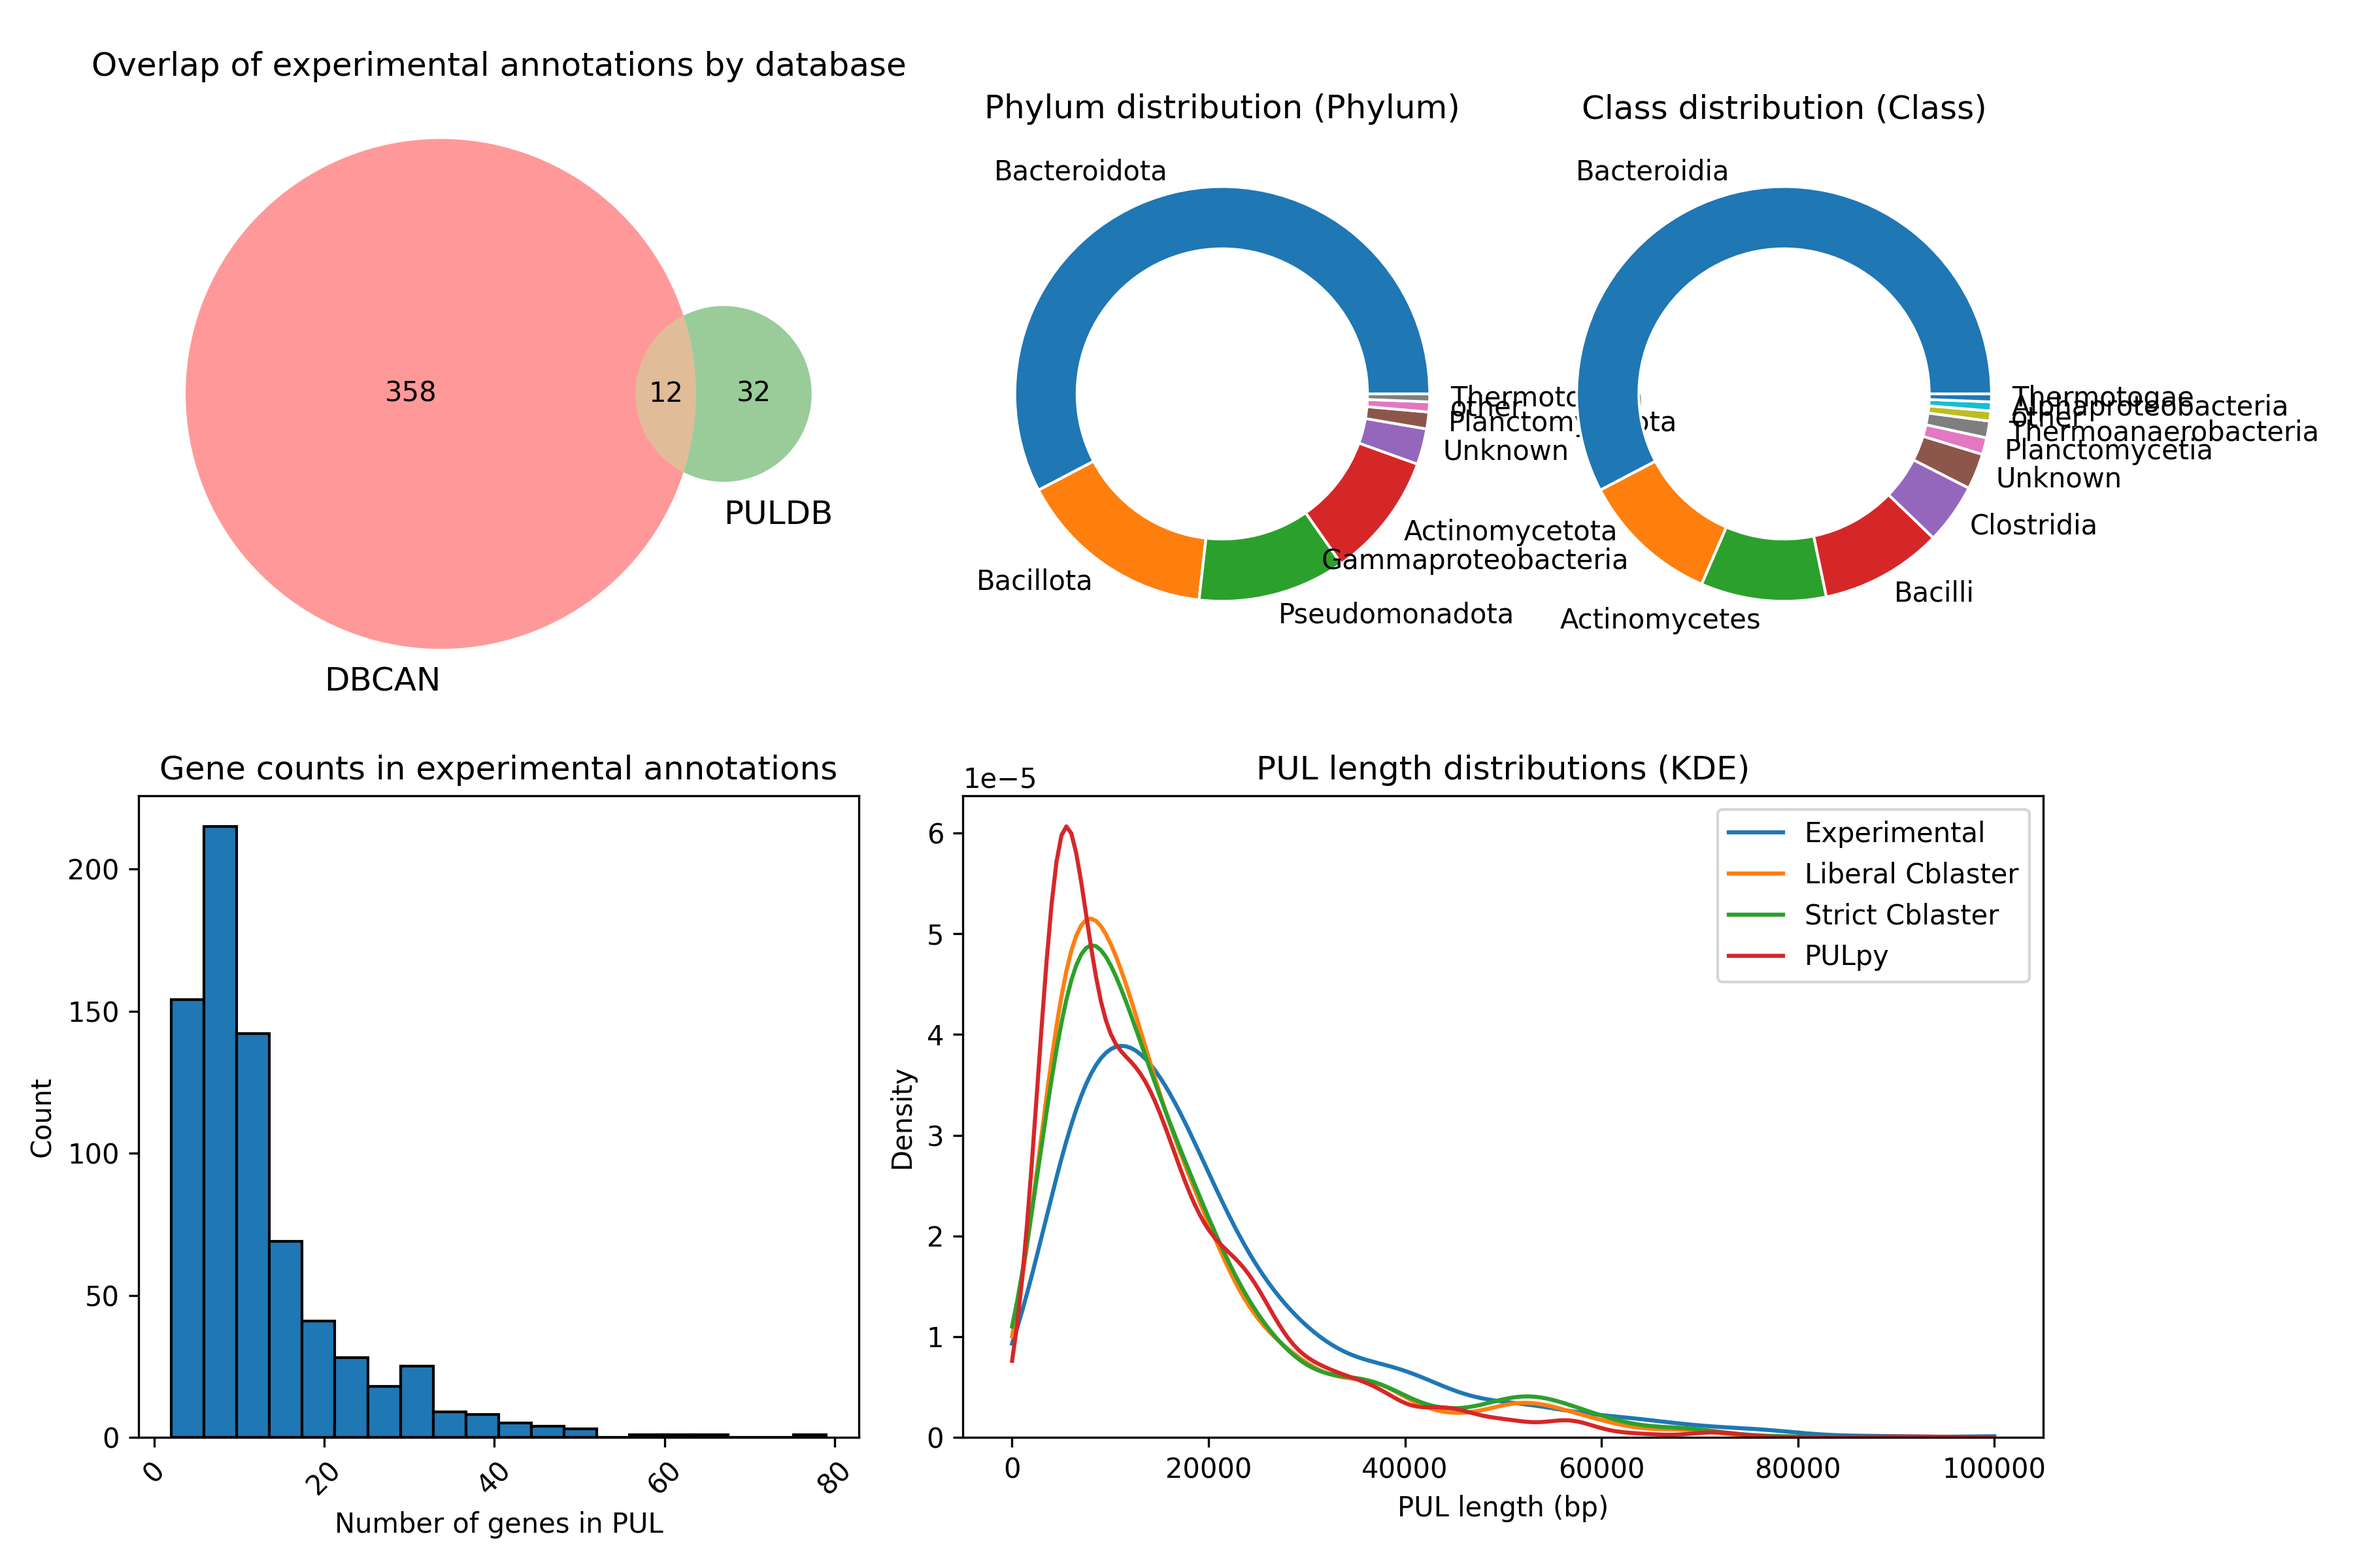
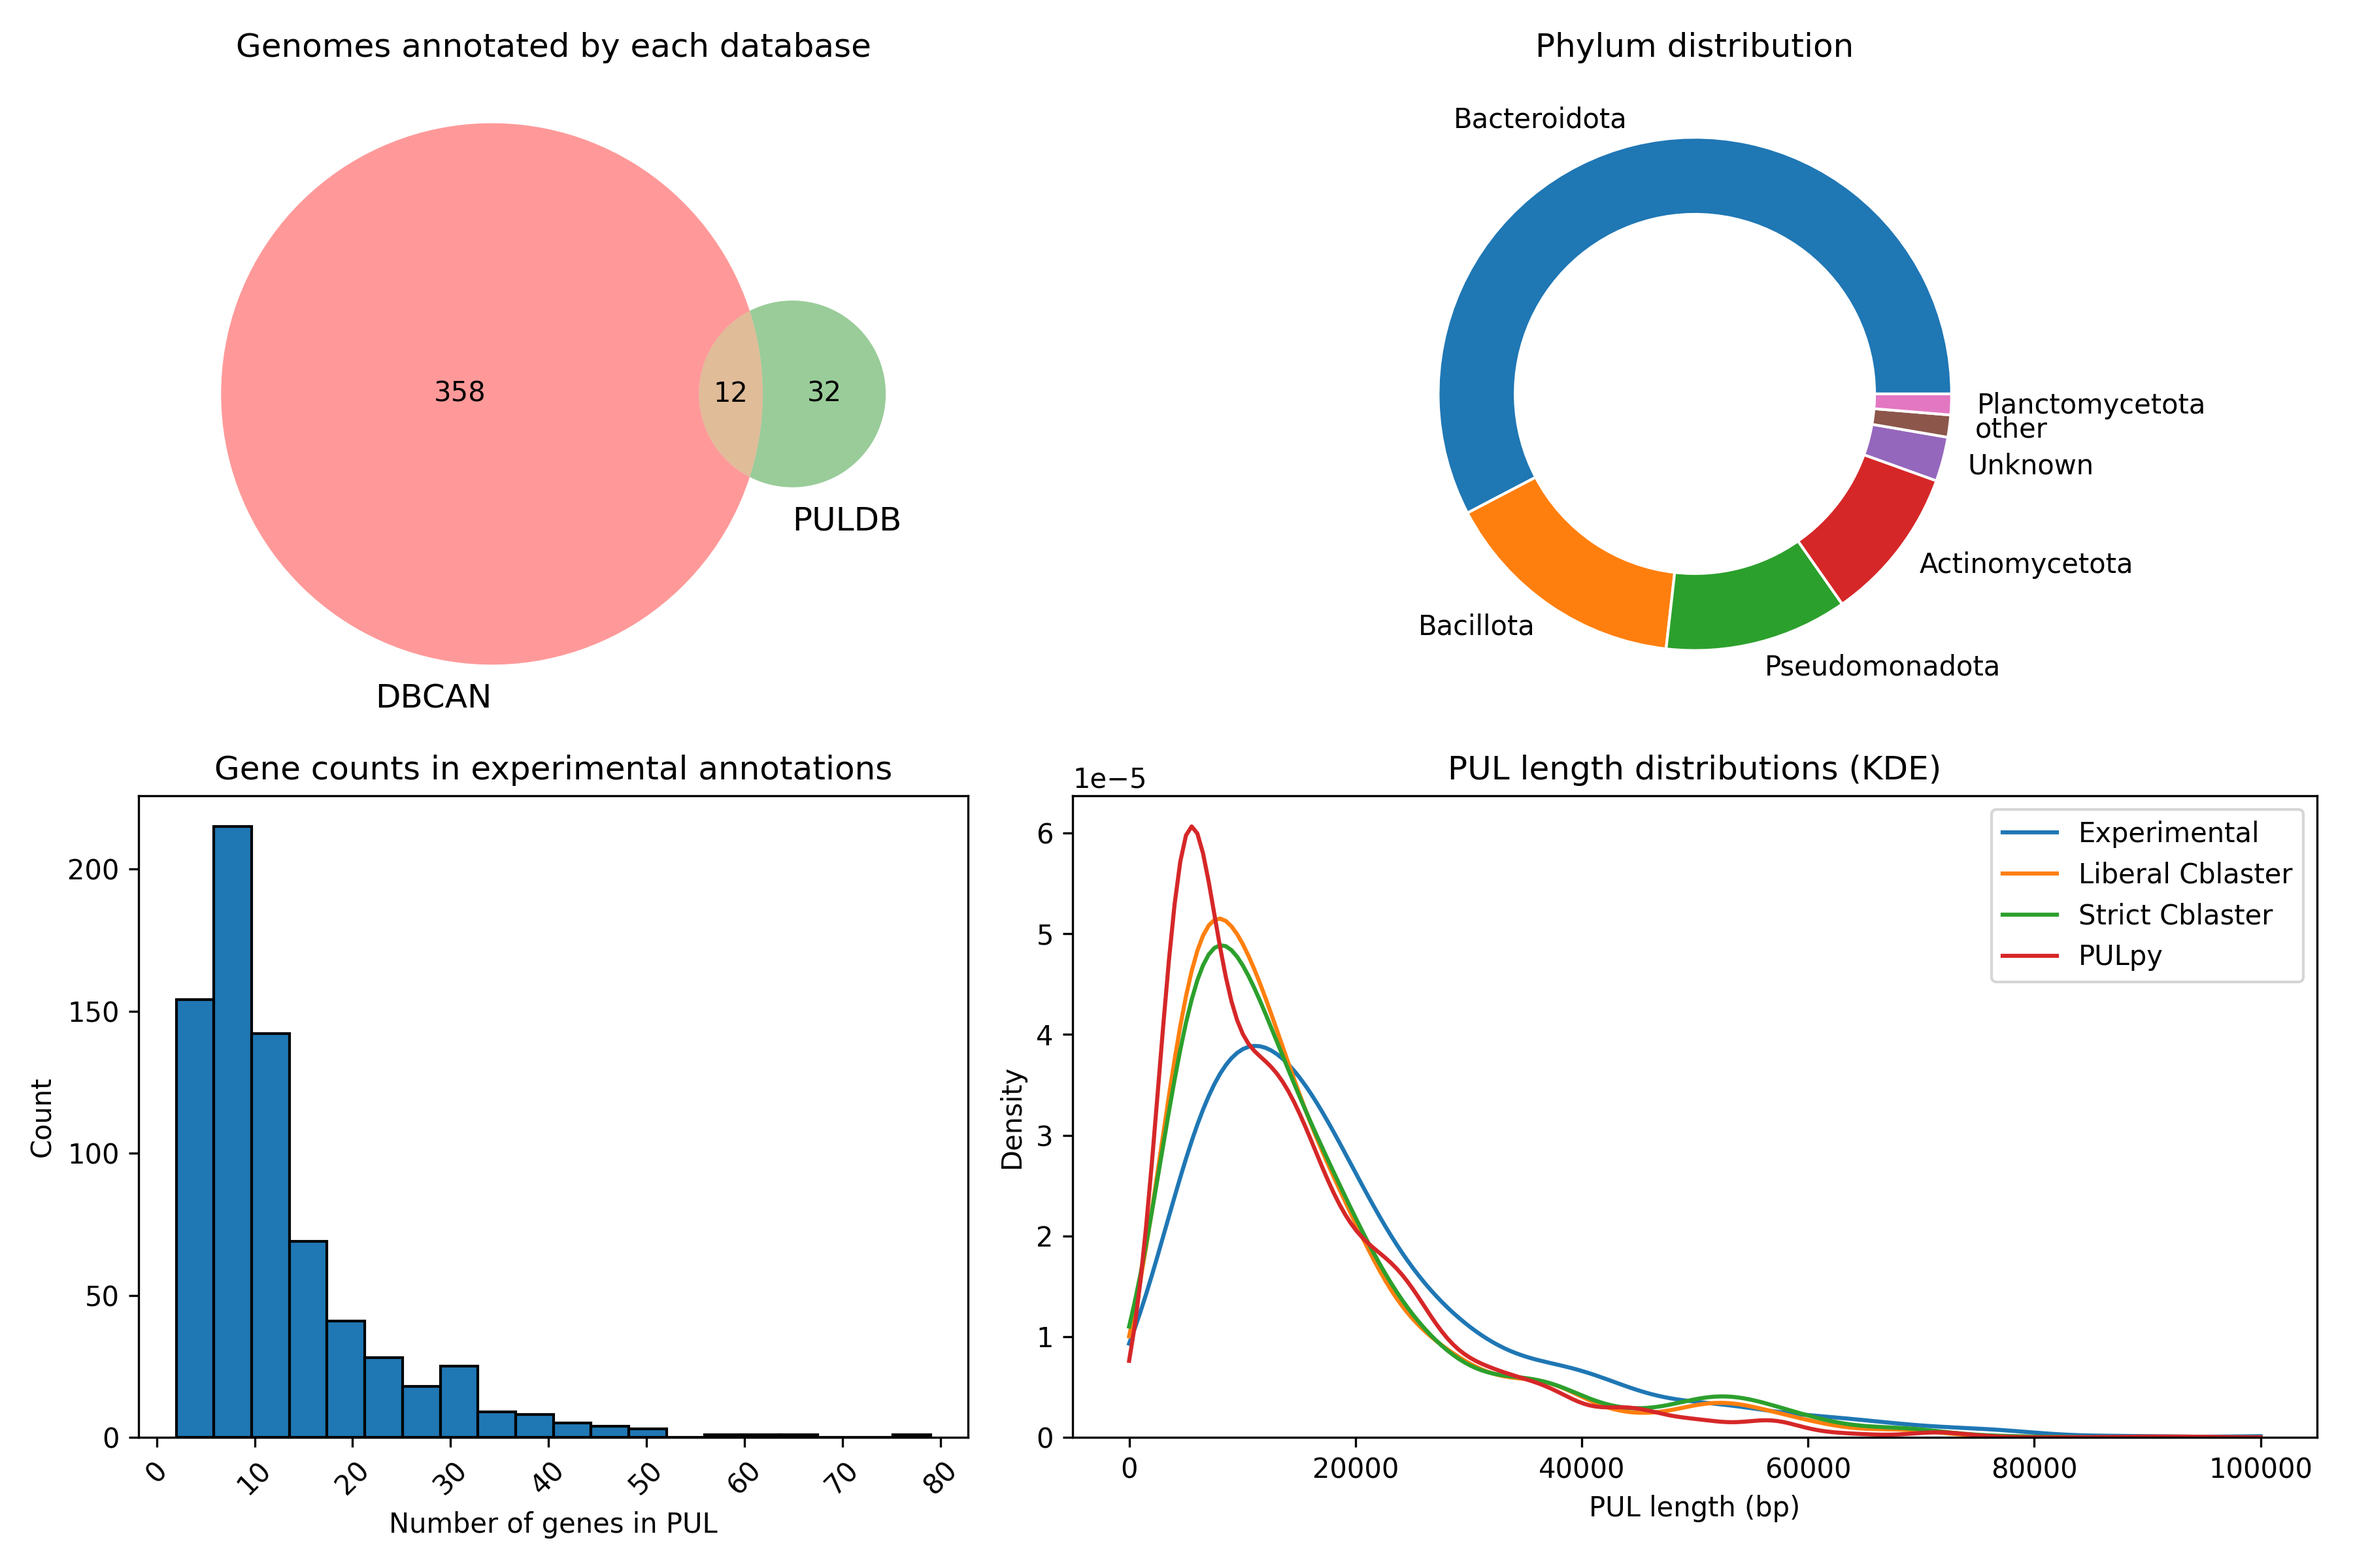
update dataset construction plot

diff --git a/src/scripts/visualization/dataset_construction.py b/src/scripts/visualization/dataset_construction.py
@@ -57,19 +57,19 @@ def donut_chart(ax, counts, rank, title="Taxonomic distribution"):
     x = counts.select(f"{rank.lower()}_group").to_series()
     heights = counts.select("count").to_series()
     ax.pie(heights, labels=x, radius=1, wedgeprops=dict(width=0.3, edgecolor='w'))
-    ax.set_title(f"{title} ({rank})")
+    ax.set_title(f"{title}")
 
 def plot_taxonomy(ax, all_puls):
-    phylum_counts = get_taxonomic_counts(all_puls, rank="phylum", cutoff=5)
-    class_counts = get_taxonomic_counts(all_puls, rank="class", cutoff=5)
+    phylum_counts = get_taxonomic_counts(all_puls, rank="phylum", cutoff=15)
+    class_counts = get_taxonomic_counts(all_puls, rank="class", cutoff=15)
 
-    # draw two donut charts inside a single parent axis
-    ax.axis("off")
-    ax_left = ax.inset_axes([0.00, 0.0, 0.48, 1.0])
-    ax_right = ax.inset_axes([0.52, 0.0, 0.48, 1.0])
+    # # draw two donut charts inside a single parent axis
+    # ax.axis("off")
+    # ax_left = ax.inset_axes([0.00, 0.0, 0.48, 1.0])
+    # ax_right = ax.inset_axes([0.52, 0.0, 0.48, 1.0])
 
-    donut_chart(ax_left, phylum_counts, "Phylum", title="Phylum distribution")
-    donut_chart(ax_right, class_counts, "Class", title="Class distribution")
+    donut_chart(ax, phylum_counts, "Phylum", title="Phylum distribution")
+#    donut_chart(ax_right, class_counts, "Class", title="Class distribution")
 
 
 # GENE COUNT PLOT #
@@ -116,7 +116,7 @@ def plot_venn_diagram_database(ax, experimental_puls):
     
     # plot overlap
     venn2([dbcan_sequences, puldb_sequences], set_labels = ('DBCAN', 'PULDB'), ax=ax)
-    ax.set_title("Overlap of experimental annotations by database")
+    ax.set_title("Genomes annotated by each database")
 
 
 
